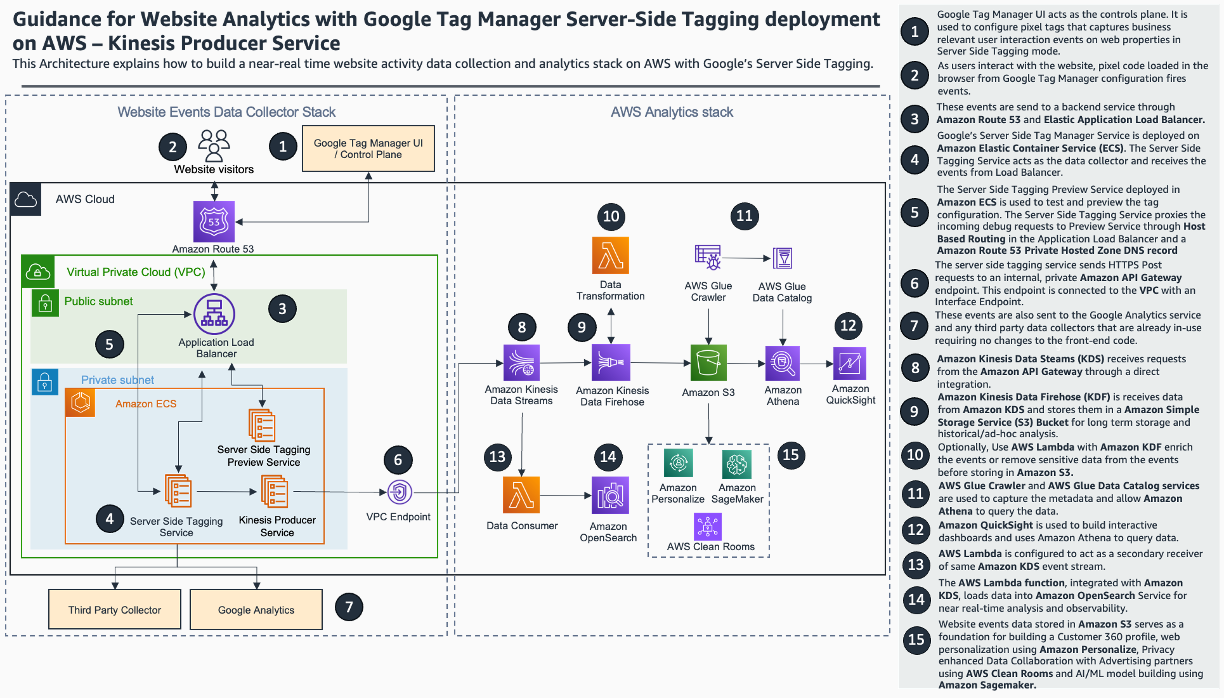
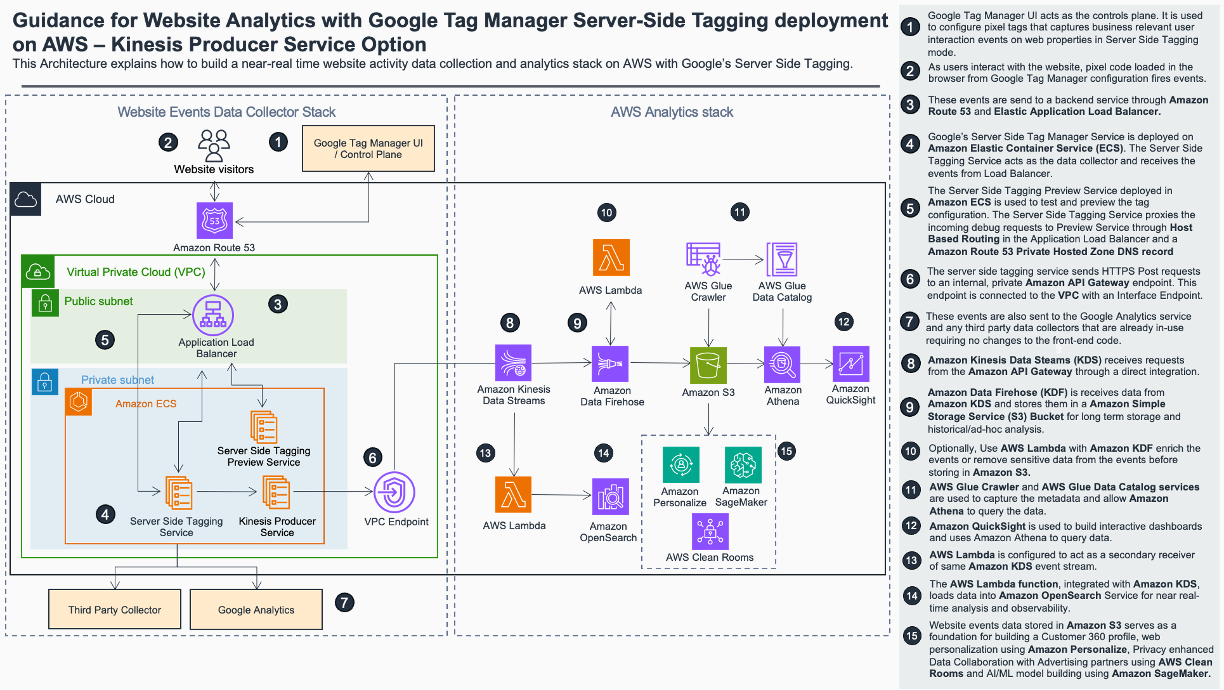
documentation updates

Changed region(s): [[0.0, 0.0, 0.9935, 1.0], [0.5588, 0.3348, 0.652, 0.4565], [0.3415, 0.8826, 0.3725, 0.913]]

diff --git a/README.md b/README.md
@@ -20,17 +20,12 @@
 
 Summary: This cdk code deploys the Google Server-Side Tag Manager in a container on AWS using Amazon Elastic Container Service (Amazon ECS). This allows you to collect data directly from web browsers using client-side libraries. Using this implementation, you can gain control over how your website tracking data is collected and processed and where it is sent. You can continue to use the Google Tag Manager control plane and Google Analytics™ service with this Guidance.
 
-The solution illustrates two different configurations each to collect and analyze hit-level data using AWS services:
-1) For the data collection you can choose to deploy the stack with a public or private preview server. For the public preview server the stack deploys two application load balancers. For the private preview server the stack deploys a single application load balancer. This choice is controlled using cdk.context.json parameters
-
-2) For data analytics using AWS services you can choose to send data to Amazon Kinesis either through API Gateway or through a Producer Service deployed on the same ECS cluster which runs the Server Side Tagging container. Once events are logged in a Kinesis data stream
-    1. You can do historical data analysis and visualization using a data lake architecture with Amazon Kinesis Data Streams, Amazon Kinesis Data Firehose, Amazon Simple Storage Service (Amazon S3), Amazon Athena, and Amazon QuickSight.
-    2. Near real-time analysis and visualization using Kinesis Data Streams, Managed Apache Flink, AWS Lambda, and Amazon OpenSearch Service.
+The solution illustrates two different configurations each to collect and analyze hit-level data using AWS services. You can choose to send data to Amazon Kinesis using below two methods
+1. API Gateway 
+2. Producer Service deployed on the same ECS cluster which runs the Server Side Tagging container
 
 ### Architecture Overview
-#### Public Preview Server Configuration(Multiple ALBs)
-![public preview server architecture diagram](./assets/gtag-architecture-diagram.png)
-#### Private Preview Server Configuration(Single ALB)
+#### API Gateway in analytics stack
 ![public preview server architecture diagram](./assets/gtag-architecture-diagram-private-preview-server.png)
 #### Kinesis Producer in analytics stack 
 ![public preview server architecture diagram](./assets/gtag-architecture-diagram-kinesis-producer.png)
@@ -72,6 +67,10 @@ aws configure --profile <profile name>
 
 1) Complete the steps mentioned in the [Google Tag Manager Setup section](https://aws-solutions-library-samples.github.io/advertising-marketing/using-google-tag-manager-for-server-side-website-analytics-on-aws.html#google-tag-manager-setup) of the implementation guide.
 2) Take a note of the [container config string](https://aws-solutions-library-samples.github.io/advertising-marketing/using-google-tag-manager-for-server-side-website-analytics-on-aws.html#google-tag-manager-setup:~:text=and%20copy%20the-,Container%20Config%20string,-to%20a%20notepad)
+3) When using API gateway option, you have two options to shape the event in a format that the kinesis api can read. 
+    a) Use the template option in the api gateway (already done as part of stack). If you are okay with this method no further action is needed.
+    b) Use a [modified version of the google tag manager "JSON HTTP request"](./source/gtm_template.js) to pre-transform the event as it reaches api gateway
+    ![Editing template code in google tag manager](./assets/gtm_template.png)
 
 ### Python Dependencies
 Review [requirements.txt](./requirements.txt) for the python dependencies
@@ -110,6 +109,7 @@ git clone git@github.com:aws-solutions-library-samples/guidance-for-website-anal
     1. Update the SSL certificate arn you got from completing the [Account requirements](#aws-account-requirements) section. Make sure that you have created the SSL certificate in the same AWS Region as you are doing the CDK deployment
     2. Update the location of the Google Tag Manager container image if needed. See [Google Documentation](https://developers.google.com/tag-platform/tag-manager/server-side/manual-setup-guide) for more details on this docker container image.
     3. Update the container config string you created in the [Google Tag Manager setup step](#google-tag-manager-setup)
+    4. Select the analytics stack integration option
 ```
 {
     "ssl_cert_arn": "ARN from AWS Certificate manager",
@@ -206,6 +206,8 @@ These commands deletes resources deploying through the solution. S3 buckets cont
 - For high volume environment, use kinesis producer to send data to kinesis is recommended in favor of using API Gateway. See this [AWS Sample](https://github.com/aws-samples/amazon-kinesis-data-processor-aws-fargate) for setting up an ECS producer container that could run on the same cluster as the Tagging Containers.
 
 - Review [AWS Click Stream Analytics Solution](https://aws.amazon.com/solutions/implementations/clickstream-analytics-on-aws/) for building a BI layer on top of click stream data on AWS. Use the [transformer code](https://github.com/awslabs/clickstream-analytics-on-aws/tree/main/examples/custom-plugins/custom-sdk-transformer) to transform the raw data to work with Solution's out of the box BI dashboards. 
+
+- You can do historical data analysis and visualization using a data lake architecture with Amazon Kinesis Data Streams, Amazon Kinesis Data Firehose, Amazon Simple Storage Service (Amazon S3), Amazon Athena, and Amazon QuickSight. Near real-time analysis and visualization using Kinesis Data Streams, Managed Apache Flink, AWS Lambda, and Amazon OpenSearch Service. The repo has a [sample python notebook with an apache flink application](./source/Gtag_ServerSide_Clickstream_Agg_Flink.ipynb) to start analysis of data that is available in Kinesis in near real time.
 
 - For any feedback, questions, or suggestions, please use the issues tab under this repo.
 
